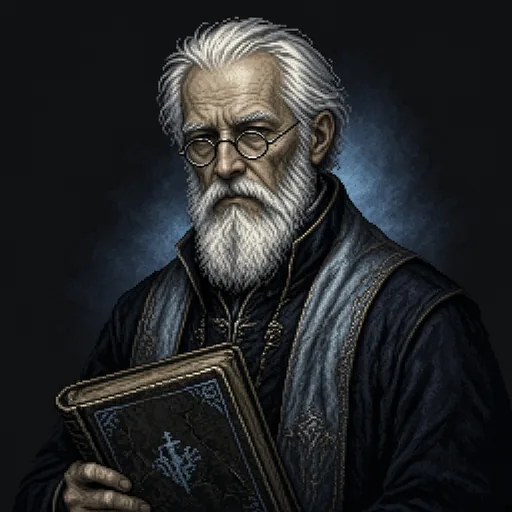
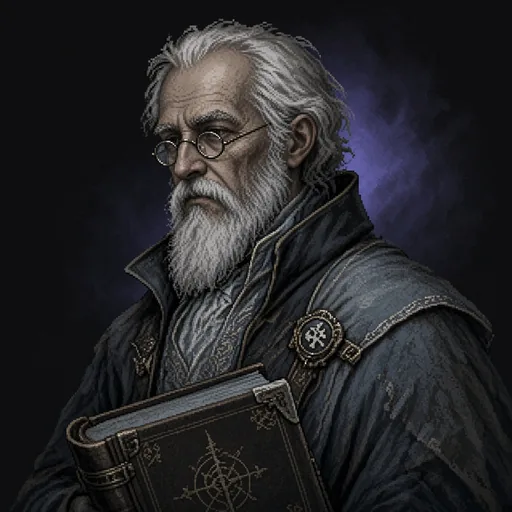
art: remaining Tier 2 portraits via Grok Bot
31 portraits, Ansel Dray switched to G2 (Tim's pick), Scout Ferrin rerolled. ART-2 is
complete: 67 sprites and 38 portraits.

Claude-Session: https://claude.ai/code/session_01G1ieR1Ws58B4uBMQBCqvG7

diff --git a/docs/ART-2.md b/docs/ART-2.md
@@ -226,11 +226,6 @@ As in Part 1, if the test batch shows a better phrasing, update the lock here be
 | id | Subject line |
 |---|---|
 | `npc_tamsin_reed` | Scribe Tamsin Reed, a sharp middle-aged Remnant scribe with ink-stained fingers and a quill behind one ear, pale-blue accent. |
-| `npc_ansel_dray` | `portraits/npc_ansel_dray.webp` (+`@sm`) | — | g / G1 | — | Grok Bot. White beard, round spectacles, ledger held to the chest, pale-blue rim light. |
-| `npc_kaelen_stonehand` | `portraits/npc_kaelen_stonehand.webp` (+`@sm`) | — | g / G1 | — | Grok Bot. Fur-trimmed coat, sharpest gaze of the four, orange ember glow. |
-| `npc_brak` | `portraits/npc_brak.webp` (+`@sm`) | — | g / G2 | — | Grok Bot. Shaved scarred head, chipped axe over the shoulder, ember sparks; matches his sprite's leather and scrap armour. |
-| `npc_borin_stonefist` | `portraits/npc_borin_stonefist.webp` (+`@sm`) | — | g / G1 | — | Grok Bot. Soot-dark beard and arms, leather apron, forge-orange glow. |
-| `npc_nyx` | `portraits/npc_nyx.webp` (+`@sm`) | — | g / G1 | — | Grok Bot. Grey threads over shadowed hair, violet starlit eyes. |
 | `npc_ansel_dray` | Keeper Ansel Dray, a Remnant keeper of about seventy with a white beard and spectacles, holding a heavy ledger, pale-blue accent. |
 | `npc_kaelen_stonehand` | Kaelen Stonehand, a broad-shouldered trader with weathered hands and a sharp gaze, a fur-trimmed coat, orange ember accent. |
 | `npc_brak` | Brak, a scarred Ironclad scout, shaved head, chipped axe over the shoulder, orange ember accent. |
@@ -370,6 +365,42 @@ As Part 1 §6, with these changes:
 | `cr_gale_kite` | `sprites/cr_gale_kite.webp` | medium | a / a1 | left / no | Diamond kite, gold wind-tail. |
 | `cr_cloud_ray` | `sprites/cr_cloud_ray.webp` | large | a / a1 | left / no | Brass-and-sailcloth manta on its own cloud. |
 | `npc_tamsin_reed` | `portraits/npc_tamsin_reed.webp` (+`@sm`) | — | g / G3 | — | **Made with Grok Bot**, not Grok Imagine (see notes). Quill behind the ear, pen in an ink-stained hand, pale-blue glow; G4 had a "REED SCRIBE" tag painted on. |
+| `npc_ansel_dray` | `portraits/npc_ansel_dray.webp` (+`@sm`) | — | g / G2 | — | Grok Bot. Tim's pick. White beard, round spectacles, heavy ledger, violet-blue glow. |
+| `npc_kaelen_stonehand` | `portraits/npc_kaelen_stonehand.webp` (+`@sm`) | — | g / G1 | — | Grok Bot. Fur-trimmed coat, sharpest gaze of the four, orange ember glow. |
+| `npc_brak` | `portraits/npc_brak.webp` (+`@sm`) | — | g / G2 | — | Grok Bot. Shaved scarred head, chipped axe over the shoulder, ember sparks; matches his sprite's leather and scrap armour. |
+| `npc_borin_stonefist` | `portraits/npc_borin_stonefist.webp` (+`@sm`) | — | g / G1 | — | Grok Bot. Soot-dark beard and arms, leather apron, forge-orange glow. |
+| `npc_nyx` | `portraits/npc_nyx.webp` (+`@sm`) | — | g / G1 | — | Grok Bot. Grey threads over shadowed hair, violet starlit eyes. |
+| `npc_dask` | `portraits/npc_dask.webp` (+`@sm`) | — | g / G1 | — | Grok Bot. Face doubled as if seen in two moments, grey-silver glow. |
+| `npc_caelum` | `portraits/npc_caelum.webp` (+`@sm`) | — | g / G3 | — | Grok Bot. Anxious young face, blue-and-white livery, warm gold glow. |
+| `npc_mireya` | `portraits/npc_mireya.webp` (+`@sm`) | — | g / G2 | — | Grok Bot. Yellow-green light at the wrists and cheek, reed shawl. |
+| `npc_bryn_dunn` | `portraits/npc_bryn_dunn.webp` (+`@sm`) | — | g / G4 | — | Grok Bot. Stern, steel cap, blue-and-white livery with the watch tower badge. |
+| `npc_bellwright_anso` | `portraits/npc_bellwright_anso.webp` (+`@sm`) | — | g / G1 | — | Grok Bot. Cheerful, burn-scarred hands holding a small bell charm. |
+| `npc_veyran_thal` | `portraits/npc_veyran_thal.webp` (+`@sm`) | — | g / G3 | — | Grok Bot. Kind, confident, white-and-silver robes, gold glow. |
+| `npc_nyxaria_vell_before` | `portraits/npc_nyxaria_vell_before.webp` (+`@sm`) | — | g / G2 | — | Grok Bot. Young, ordinary grey eyes, grey-and-silver robes, gold glow; reads as a young Nyx. |
+| `npc_oriel_danthe` | `portraits/npc_oriel_danthe.webp` (+`@sm`) | — | g / G1 | — | Grok Bot. Writing with a quill, ink on her hands, blue robes, gold halo. |
+| `npc_maelis_korr` | `portraits/npc_maelis_korr.webp` (+`@sm`) | — | g / G4 | — | Grok Bot. Severe older woman in grey robes holding the annotated workbook. |
+| `npc_haldric_vane` | `portraits/npc_haldric_vane.webp` (+`@sm`) | — | g / G1 | — | Grok Bot. Grim, ring-and-bar pendant clearly visible. |
+| `npc_durn_hallow` | `portraits/npc_durn_hallow.webp` (+`@sm`) | — | g / G4 | — | Grok Bot. Burn scars, heavy-set, chain and leather; G1 had his name painted on. |
+| `npc_seraphine_aulde` | `portraits/npc_seraphine_aulde.webp` (+`@sm`) | — | g / G3 | — | Grok Bot. Tuning fork, crystal earrings, gold glow. |
+| `npc_imre_sallow` | `portraits/npc_imre_sallow.webp` (+`@sm`) | — | g / G3 | — | Grok Bot. Soil and seedlings in her hands, flowers in her hair. |
+| `npc_tovren_masque` | `portraits/npc_tovren_masque.webp` (+`@sm`) | — | g / G1 | — | Grok Bot. Brass eyepiece, star chart, hood. |
+| `npc_tobrin_vask` | `portraits/npc_tobrin_vask.webp` (+`@sm`) | — | g / G2 | — | Grok Bot. Young and earnest, drafting square and compass. |
+| `npc_corvin_dreyl` | `portraits/npc_corvin_dreyl.webp` (+`@sm`) | — | g / G1 | — | Grok Bot. Hard-faced officer in blue and white, gold glow. |
+| `npc_ilsabet_rhune` | `portraits/npc_ilsabet_rhune.webp` (+`@sm`) | — | g / G1 | — | Grok Bot. Sleepless, wet hair and robes, chain of office. |
+| `npc_hadrek` | `portraits/npc_hadrek.webp` (+`@sm`) | — | g / G2 | — | Grok Bot. Old clockwright, magnifying lenses, small orrery at his chest. |
+| `npc_sedge_marrow` | `portraits/npc_sedge_marrow.webp` (+`@sm`) | — | g / G2 | — | Grok Bot. Diving cap and leathers, aqua-lit lamp. |
+| `npc_pellam` | `portraits/npc_pellam.webp` (+`@sm`) | — | g / G1 | — | Grok Bot. Lamplighter with a lit lantern on a long pole, aqua glow. |
+| `npc_scout_ferrin` | `portraits/npc_scout_ferrin.webp` (+`@sm`) | — | h / H2 | — | Grok Bot. Reroll (round h): round g gave him horns on his head. Reworded to "a curved brass signal horn hung on a leather strap across his chest". |
+| `npc_hadda_ironvow` | `portraits/npc_hadda_ironvow.webp` (+`@sm`) | — | g / G4 | — | Grok Bot. Fierce older clan-mother, grey braids, bone-and-iron torc. |
+| `npc_oma_varr` | `portraits/npc_oma_varr.webp` (+`@sm`) | — | g / G4 | — | Grok Bot. Very old, kind smile, wrapped in hides. |
+| `npc_tessaly_varr` | `portraits/npc_tessaly_varr.webp` (+`@sm`) | — | g / G3 | — | Grok Bot. Confident, ledger in hand, salt-stained coat. |
+| `npc_ketch` | `portraits/npc_ketch.webp` (+`@sm`) | — | g / G3 | — | Grok Bot. Ash-painted face, frame drum. |
+| `npc_sethe_unlidded` | `portraits/npc_sethe_unlidded.webp` (+`@sm`) | — | g / G2 | — | Grok Bot. Wide lidless violet eyes, grey thread hood. |
+| `npc_ysmay` | `portraits/npc_ysmay.webp` (+`@sm`) | — | g / G2 | — | Grok Bot. Ancient, eyeless, a single thread between her fingers. |
+| `npc_hollis_cade` | `portraits/npc_hollis_cade.webp` (+`@sm`) | — | g / G2 | — | Grok Bot. Grey thread wrap, tally cords hung across the chest. |
+| `npc_elder_wen` | `portraits/npc_elder_wen.webp` (+`@sm`) | — | g / G4 | — | Grok Bot. Glowing veins across her face, grey hair, reed weave. |
+| `npc_elder_tam` | `portraits/npc_elder_tam.webp` (+`@sm`) | — | g / G3 | — | Grok Bot. Half his face lit from inside, roots in his beard. |
+| `npc_old_fennick` | `portraits/npc_old_fennick.webp` (+`@sm`) | — | g / G1 | — | Grok Bot. Wiry, baskets of moss on a yoke. |
 
 **Session notes (Tier 0, 2026-10-25).** Both locks worked as written. Aspect: **2:3** for upright figures, **1:1** for wide or
 seated ones and for portraits. Grok often ignores "facing right"; mirroring is cheap (Ranger). `tools/art/cutout.py` keys the
@@ -387,7 +418,10 @@ leaves olive moss and yellow-green glow alone. `tools/art/sheet.py` builds the b
   `--erode N` shaves a painted light outline (the "sticker" rim on the Temporal Aberration).
 - **Square creatures** (beasts, wisps, constructs) were made at **1:1**. For things made of light, add "with no body":
   without it Grok gives the wisp a dark creature's body.
-- **Status:** all 67 sprites are done (Tier 0, 1 and 2). The 37 Tier 2 portraits are on hold; Tim's call (2026-10-25).
+- **Status:** ART-2 is complete: all 67 sprites and all 38 portraits. The 37 Tier 2 portraits were made with Grok Bot.
 - **Grok Bot as a second source (trial, 2026-10-25):** Tim's Grok Bot usage is metered separately from Grok Imagine. Sending
   the same prompt word for word, with "make 4 separate images, each in 1:1 square aspect ratio", returns four 1024 px images
   with the same pixel texture as Imagine's 1408 px ones. Round letter `g` marks Grok Bot images.
+- **Grok Bot in practice:** the full Tier 2 portrait run went through Grok Bot without touching Tim's extra credits. Each
+  request returns four images in about a minute. Watch for literal readings: "a horn" became horns on the head (Ferrin), and
+  Grok sometimes paints a name label onto the picture (Durn Hallow G1, Tamsin G4), so check every pick for lettering.
